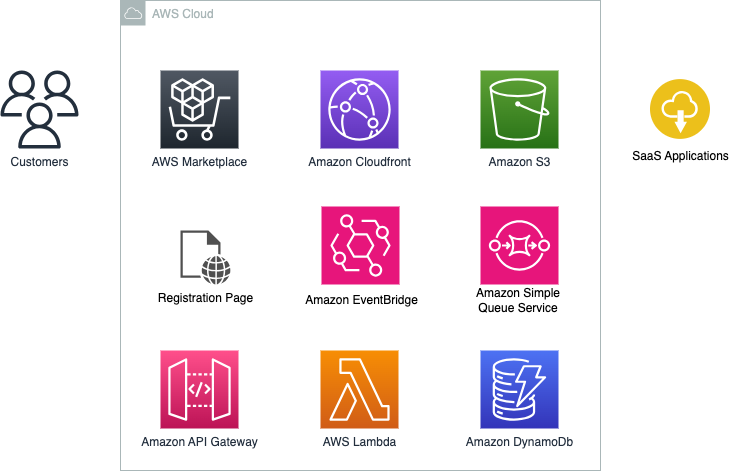
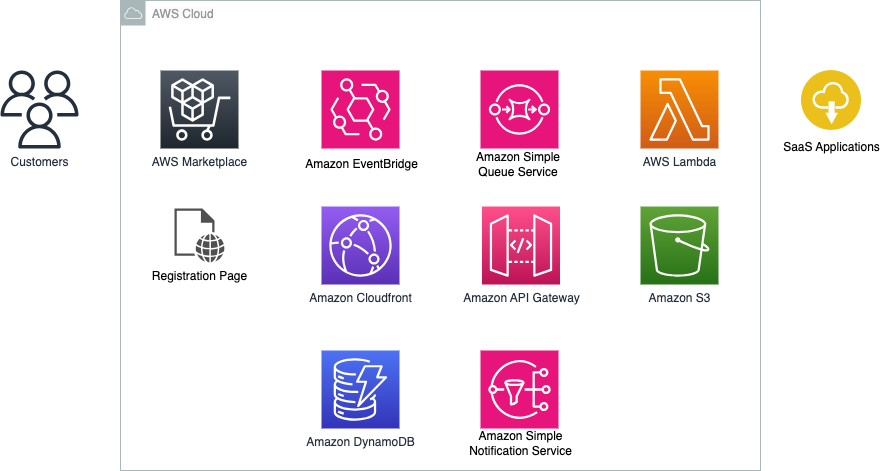
README update, remove createentitlement logic from template

diff --git a/README.md b/README.md
@@ -2,16 +2,16 @@
 
 ![](misc/banner.png)
 
-> [**UPDATE EventBridge notifications**]
-> The serverless integration for SaaS products has been updated to use [Amazon EventBridge notifications](https://docs.aws.amazon.com/marketplace/latest/userguide/saas-eventbridge-integration.html). License and entitlement events are processed via EventBridge rules and SQS queues. The solution no longer uses Amazon SNS topics from AWS Marketplace for notifications, nor does it process purchase agreement events separately — all lifecycle events are handled through the EventBridge license event flow.
+> [**UPDATE March 2026 EventBridge notifications**]
+> The serverless integration for SaaS products has been updated to use [Amazon EventBridge notifications](https://docs.aws.amazon.com/marketplace/latest/userguide/saas-eventbridge-integration.html). License events are processed via EventBridge rules and SQS queues. The solution no longer uses Amazon SNS topics from AWS Marketplace for notifications. All lifecycle events are handled by [EventBridge license events](https://docs.aws.amazon.com/marketplace/latest/userguide/notifications-eventbridge.html#events-for-licenses).
 
-> [**UPDATE CustomerIdentifier**]
-> The `CustomerIdentifier` parameter for AWS Marketplace API is scheduled for deprecation. The current implementation uses the **License ARN** (`LicenseArn`) as the primary customer identifier. There are still key names in the DynamoDB tables that use the **name** `customerIdentifier`, but the **value** stored is the License ARN from the EventBridge event. This provides a stable, unique identifier for each customer's entitlement across the lifecycle of a subscription.
+> [**UPDATE March 2026 CustomerIdentifier**]
+> The `CustomerIdentifier` parameter for AWS Marketplace API is scheduled for deprecation. The current implementation uses the **License ARN** (`LicenseArn`) as the primary customer identifier. There are still key names in the DynamoDB tables that use the **name** `customerIdentifier`, but the **value** stored is the License ARN from the EventBridge event. This provides a stable, unique identifier for each customer's entitlement across the lifecycle of a subscription. By using the **License ARN** as `customerIdentifier` the solution supports already [Concurrent Agreements](https://aws.amazon.com/about-aws/whats-new/2026/02/concurrent-agreements-february/) on AWS Marketplace.
 
 
-This project demonstrates a serverless integration example for SaaS products in AWS Marketplace using AWS SAM (Serverless Application Model) for configuration, building, and deployment. It is primarily designed for users who are familiar with deploying AWS resources via CLI, need full configuration options, and want to customize the sample. For users seeking a simpler approach with less configuration, limited customization needs, or demo purposes, an alternative lab called "[Integrate your SaaS with the Serverless SaaS Integration reference](https://catalog.workshops.aws/mpseller/en-US/saas/integration-with-quickstart#background)" is available.
+This project demonstrates a serverless integration example to [onboard customers](https://docs.aws.amazon.com/marketplace/latest/userguide/saas-product-customer-setup.html) for SaaS products in AWS Marketplace using AWS SAM (Serverless Application Model) for configuration, building, and deployment. It is primarily designed for users who are familiar with deploying AWS resources via CLI, need full configuration options, and want to customize the sample. For users seeking a simpler approach with less configuration, limited customization needs, or demo purposes, an alternative lab called "[Integrate your SaaS with the Serverless SaaS Integration reference](https://catalog.workshops.aws/mpseller/en-US/saas/integration-with-quickstart#background)" is available.
 
-> [!IMPORTANT]
+> [**!IMPORTANT**]
 > **For reference purposes only**: The solution created in this repo serves as a reference demonstrating the core components needed for integrating and operating a SaaS listing in AWS Marketplace. While we periodically update the solution to reflect current integration standards, it does not adhere to any service level agreement. Proceed with caution if you intend to use this solution in your production accounts, or on production or other critical data. You are responsible for testing, securing, and optimizing AWS Content, such as sample code, as appropriate for production grade use based on your specific quality control practices and standards.
 
 If you are a new seller on AWS Marketplace, we strongly recommend to check the following resources: 
@@ -40,7 +40,8 @@ With SaaS subscriptions and SaaS contracts, your customers subscribe to your pro
 
 When creating your product, you provide a URL to your registration landing page. AWS Marketplace uses that URL to redirect customers to your registration landing page after they subscribe. On your software's registration URL, you collect whatever information is required to create an account for the customer. AWS Marketplace recommends collecting your customer’s email addresses if you plan to contact them through email for usage notifications.
 
-The registration landing page needs to be able to identify and accept the x-amzn-marketplace-token token in the form data from AWS Marketplace with the customer’s identifier for billing. It should then pass that token value to the AWS Marketplace Metering Service and AWS Marketplace Entitlement Service APIs to resolve for the unique customer identifier and corresponding product code.
+The registration landing page needs to be able to identify and accept the `x-amzn-marketplace-token` token in the form data from AWS Marketplace. Your landing page calls the [ResolveCustomer API](https://docs.aws.amazon.com/marketplace/latest/APIReference/API_marketplace-metering_ResolveCustomer.html) to get and persist **CustomerAWSAccountId**,**CustomerIdentifier**, **LicenseArn** and **ProductCode**. You use the **CustomerAWSAccountId** and for Concurrent Agreements additionally the **LicenseArn** for usage based billing.
+
 
 ![](misc/saas_product_setup_account.gif)
 
@@ -77,7 +78,7 @@ We are using the same DynamoDB stream to detect changes in the DynamoDB table. W
 
 ### Revoke access to customers with expired contracts and cancelled subscriptions 
 
-The revoke access logic is implemented in a similar manner as the grant access logic. 
+The revoke access logic is implemented in a similar manner as the grant access logic but uses the **License Deprovisioned** event.
 
 In our implementation the `MarketplaceTechAdmin` receives email when the contract expires or the subscription is cancelled. 
 AWS Marketplace strongly recommends automating the access and environment management which can be achieved by modifying the `grant-revoke-access-to-product.js` function.
@@ -86,14 +87,18 @@ AWS Marketplace strongly recommends automating the access and environment manage
 
 For SaaS subscriptions, the SaaS provider must meter for all usage, and then customers are billed by AWS based on the metering records provided. For SaaS contracts, you only meter for usage beyond a customer’s contract entitlements. When your application meters usage for a customer, your application is providing AWS with a quantity of usage accrued. Your application meters for the pricing dimensions that you defined when you created your product, such as gigabytes transferred or hosts scanned in a given hour.
 
+This solution includes a [Jupyter notebook](./test/test-metering.ipynb) to test metering for your SaaS subscription product.
+
 ### Implementation
 
-We have created MeteringSchedule rule in Amazon EventBridge that trigger the `metering-hourly-job.js` Lambda function **hourly**. It's querying all of the pending/unreported metering records from the `AWSMarketplaceMeteringRecords` table using the PendingMeteringRecordsIndex.
+The solutions creates a MeteringSchedule rule in Amazon EventBridge that triggers the `metering-hourly-job.js` Lambda function **hourly**. It's querying all of the pending/unreported metering records from the `AWSMarketplaceMeteringRecords` table using the PendingMeteringRecordsIndex.
 All of the pending records are aggregated based on the customerIdentifier and dimension name, and sent to the SQSMetering queue.
 The records in the `AWSMarketplaceMeteringRecords` table are expected to be inserted programmatically by your SaaS application. In this case you will have to give permissions to the service in charge of collecting usage data in your existing SaaS product to be able to write to `AWSMarketplaceMeteringRecords` table. 
 
 The lambda function `metering-sqs.js` is sending all of the queued metering records to the AWS Marketplace Metering service.
 After every call to the `batchMeterUsage` endpoint the rows are updated in the AWSMarketplaceMeteringRecords table, with the response returned from the Metering Service, which can be found in the `metering_response` field. If the request was unsuccessful the metering_failed value with be set to true and you will have to investigate the issue the error will be also stored in the `metering_response` field.
+
+Logs from `metering-hourly-job.js` and `metering-sqs.js` are stored in CloudWatch logs where you can find detailed information about the metering process.
 
 The new records in the AWSMarketplaceMeteringRecords table must be stored in the following format:
 
@@ -138,9 +143,9 @@ The new records in the AWSMarketplaceMeteringRecords table must be stored in the
 
 Where the `create_timestamp` is the sort key and `customerIdentifier` is the partition key, and they are both forming the Primary key.
 
-**Note**: You are responsible to choose a timestamp precision for your setup. For example when you use seconds precision for the `create_timestamp` and try to put more than one record within one second in the table with the same `create_timestamp` and `customerIdentifier`, only one record will be stored. You can use for example nano seconds precision for `create_timestamp` which is virtually unique.
+**Note**: You are responsible to choose a timestamp precision for your setup. For example when you use seconds precision for the `create_timestamp` and try to put more than one within one second in the table with the same `create_timestamp` and `customerIdentifier`, only one record will be stored. You can use for example nano seconds precision for `create_timestamp` which is virtually unique.
 
-**Note**: The new records format is in DynamoDB JSON format. It is different than JSON. The accepted time stamp is UNIX timestamp in UTC time. 
+**Note**: The new records format is in **DynamoDB JSON** format. It is different than JSON. The accepted time stamp is UNIX timestamp in UTC time. 
 
 After the record is submitted to AWS Marketplace BatchMeterUsage API, it will be updated and it will look like this:
 
@@ -237,15 +242,13 @@ To build and deploy your application for the first time, complete the following 
 
 ### Diagram of created resources
 
-Based on the value of the **TypeOfSaaSListing** parameter different set of resources will be created. 
+Based on the value of the **TypeOfSaaSListing** parameter different set of resources will be deployed: 
 
-In the case of *contracts_with_subscription* all of the resources depicted on the diagram below will be created.
+* In the case of ***contracts_with_subscription*** or ***subscriptions*** **all** of the **resources** depicted on the diagram below will be **deployed**.
 
-In the case of a *contracts*, the resources market with orange circles will not be created.
+* In the case of a ***contracts***, the resources market with **orange** circles will **not be deployed**.
 
-In the case of a *subscriptions* the resources market with purple circles will not be created.
-
-The landing page is optional. Use the CreateRegistrationWebPage parameter.
+The landing page is optional. Use the ***CreateRegistrationWebPage*** parameter to control if the registration page will be deployed.
 
 
 ![](misc/AWS_Marketplace_SaaS_Integration_Overview_EventBridge.png)
